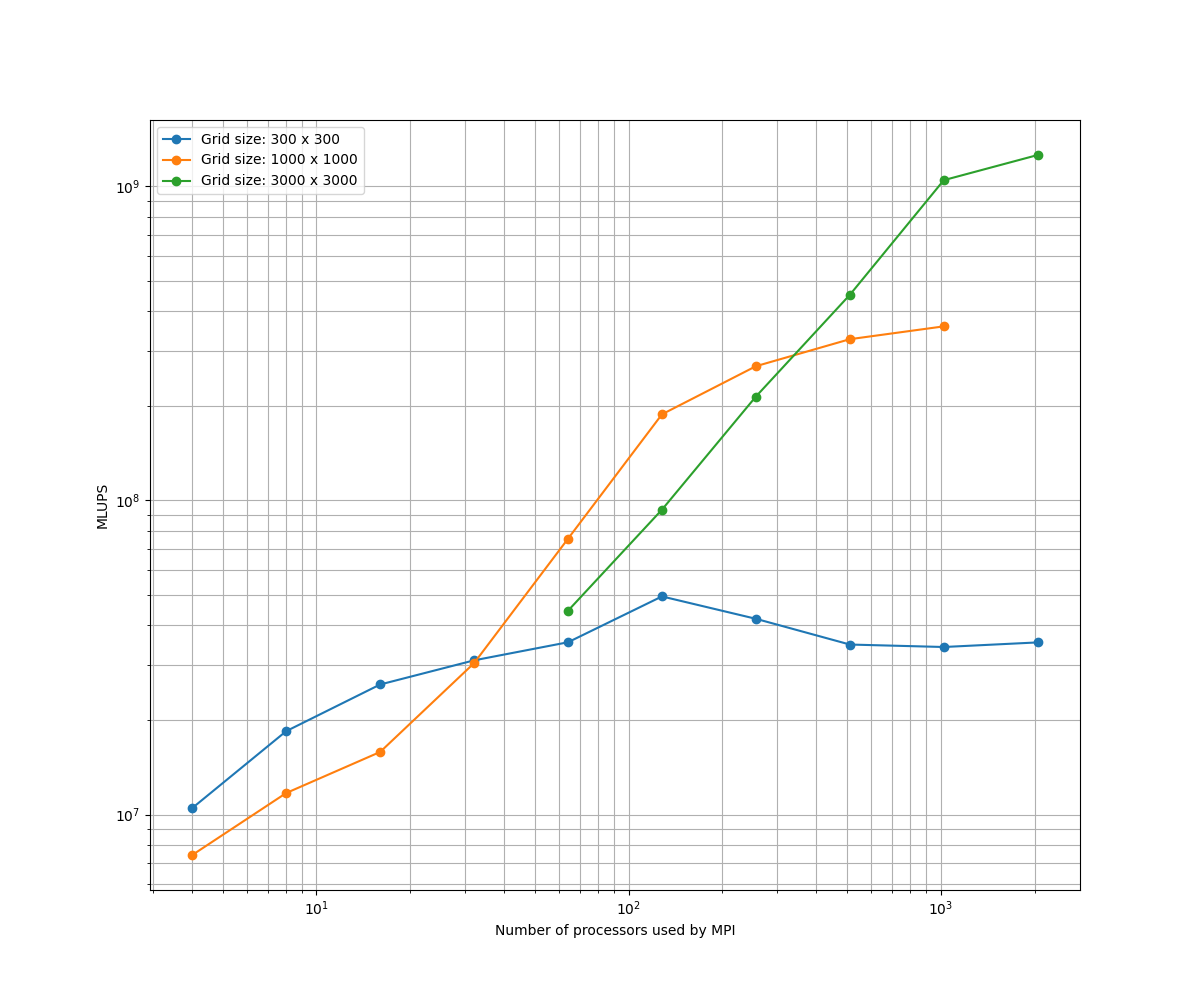
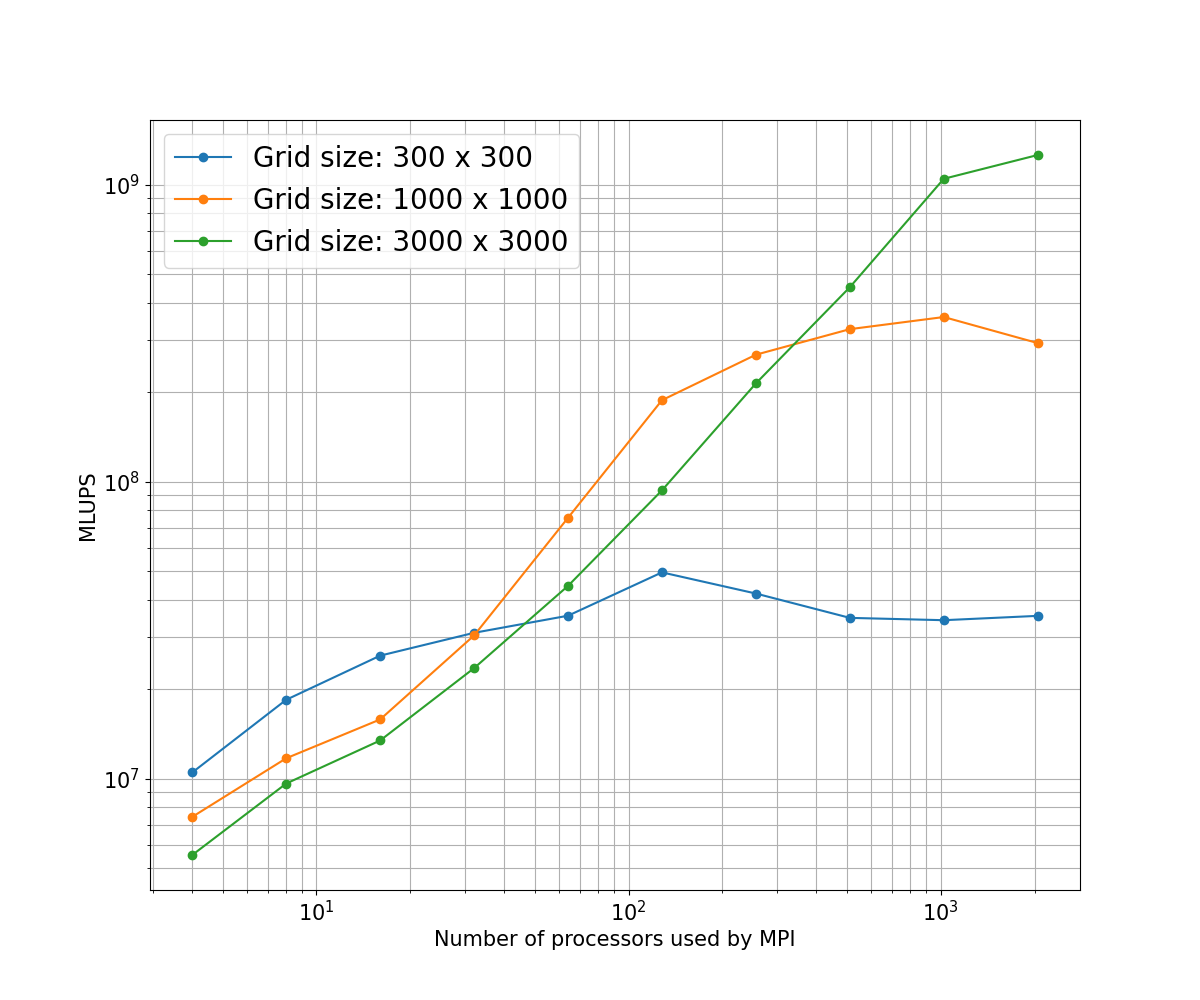
update benchmarking plot

diff --git a/src/plot_amdahl.py b/src/plot_amdahl.py
@@ -1,18 +1,24 @@
 import numpy as np
+import matplotlib
 import matplotlib.pyplot as plt
 import os
+
+font = {'size': 15}
+
+matplotlib.rc('font', **font)
 
 mpi_size_300 = np.array([4, 8, 16, 32, 64, 128, 256, 512, 1024, 2048])
 mlups_300 = \
     np.array([10491589.24, 18433557.27, 25951557.09, 30977868.03, 35370406.76,
               49494060.71, 42003080.23, 34782608.7, 34159486.85, 35330140.54])
 
-mpi_size_1000 = np.array([4, 8, 16, 32, 64, 128, 256, 512, 1024])
+mpi_size_1000 = np.array([4, 8, 16, 32, 64, 128, 256, 512, 1024, 2048])
 mlups_1000 = np.array([7435978.088, 11712015.59, 15826741.5, 30353527.54, 75570938.44,
-                       188058298.1, 267572846.7, 326179137.6, 358345875.4])
+                       188058298.1, 267572846.7, 326179137.6, 358345875.4, 292800046.8])
 
-mpi_size_3000 = np.array([64, 128, 256, 512, 1024, 2048])
-mlups_3000 = np.array([44573454.33, 93483474.72, 214218388.5, 451587329.5, 1046402121, 1258459645])
+mpi_size_3000 = np.array([4, 8, 16, 32, 64, 128, 256, 512, 1024, 2048])
+mlups_3000 = np.array([5532921.467, 9628542.595, 13442661, 23557761.14, 44573454.33, 93483474.72,
+                       214218388.5, 451587329.5, 1046402121, 1258459645])
 
 fig, ax = plt.subplots(nrows=1, ncols=1, figsize=(12, 10))
 _ = ax.set_ylabel("MLUPS")
@@ -24,7 +30,7 @@ _ = ax.plot(mpi_size_300, mlups_300, marker='o', label="Grid size: 300 x 300")
 _ = ax.plot(mpi_size_1000, mlups_1000, marker='o', label="Grid size: 1000 x 1000")
 _ = ax.plot(mpi_size_3000, mlups_3000, marker='o', label="Grid size: 3000 x 3000")
 
-_ = ax.legend()
+_ = ax.legend(prop={'size': 20})
 _ = ax.grid(True, which="both", ls="-")
 
 # Save plot
